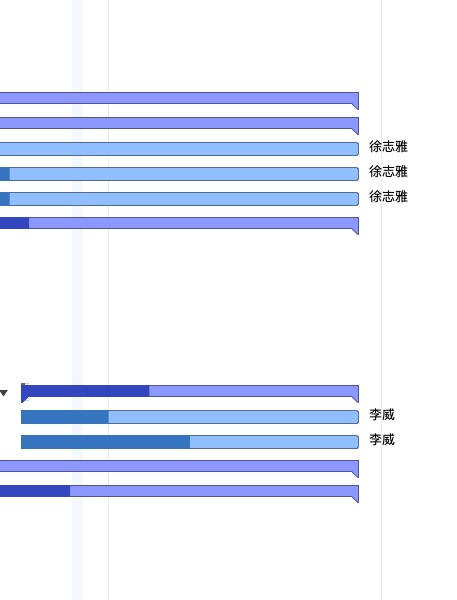
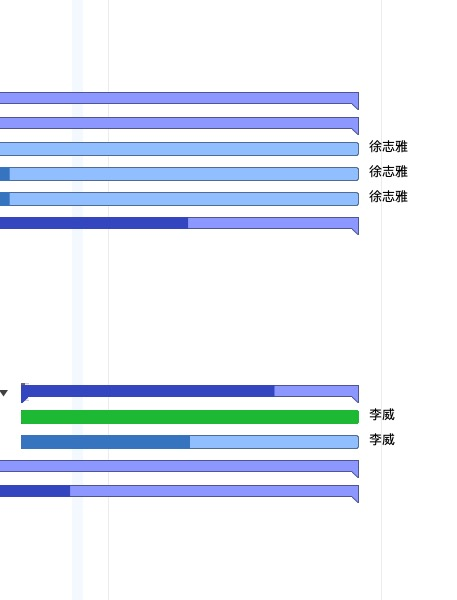
upgrade

Changed region(s): [[0.0306, 0.63, 0.7965, 0.72], [0.0613, 0.36, 0.4289, 0.39]]

diff --git a/FSCv1904/gantt.html b/FSCv1904/gantt.html
@@ -30,32 +30,32 @@
 	<h1>FSCv1904Plan：甘特图</h1>
 		<div class="tablewrap"><table border="0" cellspacing="0" cellpadding="0">
 <tr>
-	<td><img src="include/gantt0,0.jpg?nocacheTag=1230526724" border=0/></td>
-	<td><img src="include/gantt1,0.jpg?nocacheTag=-779661502" border=0/></td>
+	<td><img src="include/gantt0,0.jpg?nocacheTag=-1807248023" border=0/></td>
+	<td><img src="include/gantt1,0.jpg?nocacheTag=254926889" border=0/></td>
 </tr>
 <tr>
-	<td><img src="include/gantt0,1.jpg?nocacheTag=1826163992" border=0/></td>
-	<td><img src="include/gantt1,1.jpg?nocacheTag=1535010171" border=0/></td>
+	<td><img src="include/gantt0,1.jpg?nocacheTag=-1617911880" border=0/></td>
+	<td><img src="include/gantt1,1.jpg?nocacheTag=-19946756" border=0/></td>
 </tr>
 <tr>
-	<td><img src="include/gantt0,2.jpg?nocacheTag=512759595" border=0/></td>
-	<td><img src="include/gantt1,2.jpg?nocacheTag=891787012" border=0/></td>
+	<td><img src="include/gantt0,2.jpg?nocacheTag=417529130" border=0/></td>
+	<td><img src="include/gantt1,2.jpg?nocacheTag=-938593014" border=0/></td>
 </tr>
 <tr>
-	<td><img src="include/gantt0,3.jpg?nocacheTag=1343926285" border=0/></td>
-	<td><img src="include/gantt1,3.jpg?nocacheTag=2010623125" border=0/></td>
+	<td><img src="include/gantt0,3.jpg?nocacheTag=1671127489" border=0/></td>
+	<td><img src="include/gantt1,3.jpg?nocacheTag=1765630943" border=0/></td>
 </tr>
 <tr>
-	<td><img src="include/gantt0,4.jpg?nocacheTag=-2039540515" border=0/></td>
-	<td><img src="include/gantt1,4.jpg?nocacheTag=-325585528" border=0/></td>
+	<td><img src="include/gantt0,4.jpg?nocacheTag=-441018577" border=0/></td>
+	<td><img src="include/gantt1,4.jpg?nocacheTag=-1559628726" border=0/></td>
 </tr>
 <tr>
-	<td><img src="include/gantt0,5.jpg?nocacheTag=319986312" border=0/></td>
-	<td><img src="include/gantt1,5.jpg?nocacheTag=1734794980" border=0/></td>
+	<td><img src="include/gantt0,5.jpg?nocacheTag=-574401996" border=0/></td>
+	<td><img src="include/gantt1,5.jpg?nocacheTag=1744998322" border=0/></td>
 </tr>
 <tr>
-	<td><img src="include/gantt0,6.jpg?nocacheTag=2098241692" border=0/></td>
-	<td><img src="include/gantt1,6.jpg?nocacheTag=1744022972" border=0/></td>
+	<td><img src="include/gantt0,6.jpg?nocacheTag=-2046423203" border=0/></td>
+	<td><img src="include/gantt1,6.jpg?nocacheTag=1498336415" border=0/></td>
 </tr>
 </table>
 </div>

diff --git a/FSCv1904/index.html b/FSCv1904/index.html
@@ -32,8 +32,8 @@
 			<p class="number"><span class="data-missing">无</span></p>
 		</div>
 		<div id="completed" class="box">
-			<h2><span class="number">39%</span>已完成</h2>
-			<div id="bar"><div id="fill" style="width:39%;"></div></div>
+			<h2><span class="number">42%</span>已完成</h2>
+			<div id="bar"><div id="fill" style="width:42%;"></div></div>
 			<p><span class="label">开始：</span>2019/1/28 上午9:00</p>
 			<p><span class="label">结束日期：</span>2019/4/30 下午7:00</p>
 			<p><span class="label">差异：</span>2 周 1 天</p>
@@ -105,7 +105,7 @@
 <td>2019/2/27 上午9:00</td>
 <td>2019/4/26 下午7:00</td>
 <td>42 周 3 天</td>
-<td>32%</td>
+<td>41%</td>
 <td></td>
             </tr>
 

diff --git a/FSCv1904/task.html b/FSCv1904/task.html
@@ -543,7 +543,7 @@
 <td>2019/2/15 上午9:00</td>
 <td>2019/4/26 下午7:00</td>
 <td>10 周 1 天</td>
-<td>48%</td>
+<td>73%</td>
 <td></td>
 <td class="total"></td>
 <td></td>
@@ -645,7 +645,7 @@
 <td>2019/3/21 上午9:00</td>
 <td>2019/4/26 下午7:00</td>
 <td>5 周 2 天</td>
-<td>38%</td>
+<td>75%</td>
 <td></td>
 <td class="total"></td>
 <td></td>
@@ -662,7 +662,7 @@
 <td>2019/3/21 上午9:00</td>
 <td>2019/4/26 下午7:00</td>
 <td>5 周 2 天</td>
-<td>26%</td>
+<td>100%</td>
 <td></td>
 <td class="total"></td>
 <td>李威</td>

diff --git a/FSCv1904/resource.html b/FSCv1904/resource.html
@@ -464,7 +464,7 @@
 <td>2019/2/27 上午9:00</td>
 <td>2019/4/26 下午7:00</td>
 <td>42 周 3 天</td>
-<td>32%</td>
+<td>41%</td>
 <td></td>
             </tr>
 
@@ -509,7 +509,7 @@
 <td>2019/3/21 上午9:00</td>
 <td>2019/4/26 下午7:00</td>
 <td>5 周 2 天</td>
-<td>26%</td>
+<td>100%</td>
 <td></td>
             </tr>
 
